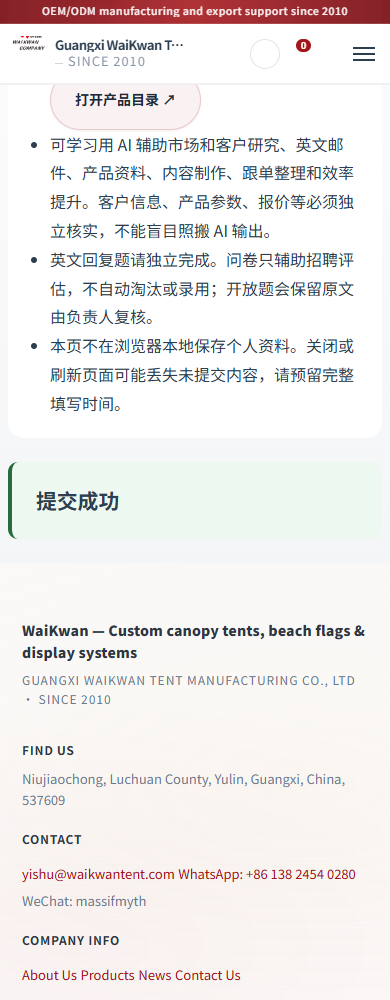
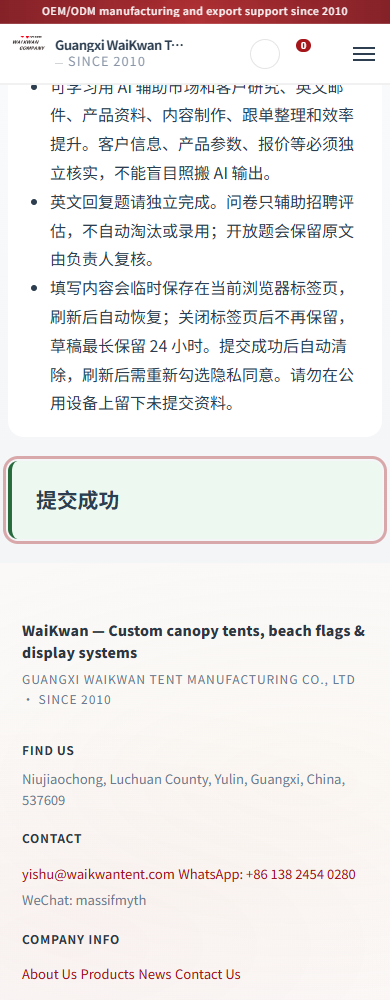
1
1

diff --git a/zh/careers.html b/zh/careers.html
@@ -201,21 +201,23 @@ height="0" width="0" style="display:none;visibility:hidden"></iframe></noscript>
 <p><strong>销售也要跟进生产进度</strong><br>订单生产落后、货物可能赶不出来或影响交期时，要及时联系相关负责人，协助沟通和推动进度，并向我汇报。这属于销售订单跟进的一部分，主要工作仍是外贸销售。</p>
 <p><strong>薪酬与食宿如实说明</strong><br>薪酬为底薪＋成交提成，前 3–6 个月收入可能起步较慢，具体金额和规则面谈确认，不承诺固定收入、固定涨薪或必然达到某种收入。公司可以提供食宿，是否入住由你自行选择。</p>
 </div><p>外贸经验不限；更看重你对外贸的兴趣、主动了解产品和学习 AI 工具的意愿，以及基础英文读写和沟通能力。没有 AI 使用经验不直接视为不合格。</p></section>
-<section class="careers-box"><h2>填写前，请先了解</h2><ul><li>问卷预计 8–10 分钟，共 13 题。简答栏建议用一两句话；按真实情况填写即可，不需要标准答案。</li><li>请先浏览一个感兴趣的产品，想一想它解决的需求、适用客户和你还想了解的信息。<a class="btn btn-secondary" href="/zh/all-products.html" target="_blank" rel="noopener noreferrer">打开产品目录 ↗</a></li><li>可学习用 AI 辅助市场和客户研究、英文邮件、产品资料、内容制作、跟单整理和效率提升。客户信息、产品参数、报价等必须独立核实，不能盲目照搬 AI 输出。</li><li>英文回复题请独立完成。问卷只辅助招聘评估，不自动淘汰或录用；开放题会保留原文由负责人复核。</li><li>本页不在浏览器本地保存个人资料。关闭或刷新页面可能丢失未提交内容，请预留完整填写时间。</li></ul></section>
+<section class="careers-box"><h2>填写前，请先了解</h2><ul><li>问卷预计 8–10 分钟，共 13 题。简答栏建议用一两句话；按真实情况填写即可，不需要标准答案。</li><li>请先浏览一个感兴趣的产品，想一想它解决的需求、适用客户和你还想了解的信息。<a class="btn btn-secondary" href="/zh/all-products.html" target="_blank" rel="noopener noreferrer">打开产品目录 ↗</a></li><li>可学习用 AI 辅助市场和客户研究、英文邮件、产品资料、内容制作、跟单整理和效率提升。客户信息、产品参数、报价等必须独立核实，不能盲目照搬 AI 输出。</li><li>英文回复题请独立完成。问卷只辅助招聘评估，不自动淘汰或录用；开放题会保留原文由负责人复核。</li><li>填写内容会临时保存在当前浏览器标签页，刷新后自动恢复；关闭标签页后不再保留，草稿最长保留 24 小时。提交成功后自动清除，刷新后需重新勾选隐私同意。请勿在公用设备上留下未提交资料。</li></ul></section>
 <div id="careersStatus" class="careers-notice" role="status" aria-live="polite" tabindex="-1" data-state="unconfigured">正在加载在线问卷，请先确认可以访问 Google 服务。</div>
 <p id="careersProgress" class="careers-progress" aria-live="polite">正在加载问卷…</p>
 <form id="careersForm" action="#careersStatus" method="post">
+<p id="careersDraftStatus" class="careers-hint">草稿将在当前标签页临时保存，刷新后可恢复。</p>
 <section class="careers-box" aria-labelledby="contactHeading"><h2 id="contactHeading">基本申请信息</h2><p class="careers-hint">仅收集招聘所需资料；基本联系信息及工作年限不计分。无正式工作经历可如实填写学习、兼职或其他相关经历。</p><div class="careers-profile">
 <div><label for="applicantName">姓名</label><input id="applicantName" name="name" autocomplete="name" required maxlength="80"></div>
 <div><label for="applicantPhone">电话</label><input id="applicantPhone" name="phone" type="tel" autocomplete="tel" required minlength="7" maxlength="30"></div>
 <div><label for="applicantEmail">邮箱</label><input id="applicantEmail" name="email" type="email" autocomplete="email" required maxlength="254"></div>
 <div><label for="applicantLocation">所在地（城市即可）</label><input id="applicantLocation" name="location" autocomplete="address-level2" required maxlength="120"></div>
+<div class="wide"><label for="applicantWechat">微信号（选填）</label><input id="applicantWechat" name="wechat" maxlength="80" autocomplete="off" placeholder="填写微信号，方便招聘沟通"></div>
 <div class="wide"><label for="applicantAvailability">可到岗时间</label><input id="applicantAvailability" name="availability" required maxlength="120" placeholder="例如：收到录用通知后两周内"></div>
 <div class="wide"><label for="applicantExperience">相关工作或学习经历</label><textarea id="applicantExperience" name="experience" required rows="3" maxlength="1200" placeholder="简述做过的事情、负责内容；没有外贸经历也可以申请。"></textarea></div>
 </div></section>
 <div class="careers-honey" aria-hidden="true"><label for="careersWebsite">请留空</label><input id="careersWebsite" name="website" tabindex="-1" autocomplete="off"></div>
 <div id="careersQuestions"></div><noscript><p class="careers-notice">问卷需要启用 JavaScript。当前无法提交，请联系招聘负责人。</p></noscript>
-<section class="careers-box" id="recruitmentPrivacy"><h2>招聘隐私说明</h2><p>姓名、电话、邮箱、所在地、到岗时间、经历与问卷答案仅用于本次招聘联系和岗位评估。提交后，资料及供人工复核的评估报告通过 Google Apps Script 写入招聘负责人管理的私人 Google 表格（候选人总览、逐题答案），候选人页面不展示评分。</p><p>不要求年龄、婚育、健康、宗教、身份证件等与岗位无关的敏感信息，请不要在答案中主动填写这些内容。不会将候选人信息发送给未经配置的第三方 AI。申请信息不用于营销。需要查询、更正或删除申请资料时，可联系 yishu@waikwantent.com；招聘负责人应限制资料访问并在招聘结束后及时清理不再需要的资料。</p><label class="careers-check"><input name="consent" type="checkbox" required><span>我已阅读并同意上述隐私说明，同意将我提供的资料仅用于招聘联系和评估。</span></label>
+<section class="careers-box" id="recruitmentPrivacy"><h2>招聘隐私说明</h2><p>姓名、电话、邮箱、微信号（如填写）、所在地、到岗时间、经历与问卷答案仅用于本次招聘联系和岗位评估。未提交草稿仅临时保存在本机当前标签页的 sessionStorage 中，刷新可恢复；最长保留 24 小时，关闭标签页或提交成功后清除。提交后，资料及供人工复核的评估报告通过 Google Apps Script 写入招聘负责人管理的私人 Google 表格（候选人总览、逐题答案），候选人页面不展示评分。</p><p>不要求年龄、婚育、健康、宗教、身份证件等与岗位无关的敏感信息，请不要在答案中主动填写这些内容。不会将候选人信息发送给未经配置的第三方 AI。申请信息不用于营销。需要查询、更正或删除申请资料时，可联系 yishu@waikwantent.com；招聘负责人应限制资料访问并在招聘结束后及时清理不再需要的资料。</p><label class="careers-check"><input name="consent" type="checkbox" required><span>我已阅读并同意上述隐私说明，同意将我提供的资料仅用于招聘联系和评估。</span></label>
 <button id="careersSubmit" type="submit" class="btn btn-primary careers-submit" disabled>正在加载问卷…</button><p class="careers-hint">只有收到 Google 表格写入成功回执，页面才会显示“提交成功”。若显示失败或超时，请保留答案并联系负责人核实。</p></section></form></div></article><section class="contact-bottom">
             <div class="contact-bottom__bg"></div>
             <div class="contact-bottom__inner">
@@ -316,4 +318,4 @@ height="0" width="0" style="display:none;visibility:hidden"></iframe></noscript>
                     </div>
                 </div>
             </div>
-        </section></main><script src="/scripts/cart.js"></script><script src="/scripts/main.js?v=20261020-careers-nav"></script><script src="/scripts/multilang.js?v=20261020-careers-nav"></script><script src="/scripts/get-quote-footer.js?v=20261020-careers"></script><script src="/scripts/careers-config.js?v=20261020-sheets-r2"></script><script src="/scripts/careers-assessment.js?v=20261020-sheets-r2"></script><script src="/scripts/careers.js?v=20261020-sheets-r2"></script></body></html>
+        </section></main><script src="/scripts/cart.js"></script><script src="/scripts/main.js?v=20261020-careers-nav"></script><script src="/scripts/multilang.js?v=20261020-careers-nav"></script><script src="/scripts/get-quote-footer.js?v=20261020-careers"></script><script src="/scripts/careers-config.js?v=20261020-sheets-r2"></script><script src="/scripts/careers-assessment.js?v=20261020-wechat"></script><script src="/scripts/careers.js?v=20261020-wechat"></script></body></html>

diff --git a/careers.html b/careers.html
@@ -185,21 +185,23 @@ height="0" width="0" style="display:none;visibility:hidden"></iframe></noscript>
 <p><strong>销售也要跟进生产进度</strong><br>订单生产落后、货物可能赶不出来或影响交期时，要及时联系相关负责人，协助沟通和推动进度，并向我汇报。这属于销售订单跟进的一部分，主要工作仍是外贸销售。</p>
 <p><strong>薪酬与食宿如实说明</strong><br>薪酬为底薪＋成交提成，前 3–6 个月收入可能起步较慢，具体金额和规则面谈确认，不承诺固定收入、固定涨薪或必然达到某种收入。公司可以提供食宿，是否入住由你自行选择。</p>
 </div><p>外贸经验不限；更看重你对外贸的兴趣、主动了解产品和学习 AI 工具的意愿，以及基础英文读写和沟通能力。没有 AI 使用经验不直接视为不合格。</p></section>
-<section class="careers-box"><h2>填写前，请先了解</h2><ul><li>问卷预计 8–10 分钟，共 13 题。简答栏建议用一两句话；按真实情况填写即可，不需要标准答案。</li><li>请先浏览一个感兴趣的产品，想一想它解决的需求、适用客户和你还想了解的信息。<a class="btn btn-secondary" href="/all-products.html" target="_blank" rel="noopener noreferrer">打开产品目录 ↗</a></li><li>可学习用 AI 辅助市场和客户研究、英文邮件、产品资料、内容制作、跟单整理和效率提升。客户信息、产品参数、报价等必须独立核实，不能盲目照搬 AI 输出。</li><li>英文回复题请独立完成。问卷只辅助招聘评估，不自动淘汰或录用；开放题会保留原文由负责人复核。</li><li>本页不在浏览器本地保存个人资料。关闭或刷新页面可能丢失未提交内容，请预留完整填写时间。</li></ul></section>
+<section class="careers-box"><h2>填写前，请先了解</h2><ul><li>问卷预计 8–10 分钟，共 13 题。简答栏建议用一两句话；按真实情况填写即可，不需要标准答案。</li><li>请先浏览一个感兴趣的产品，想一想它解决的需求、适用客户和你还想了解的信息。<a class="btn btn-secondary" href="/all-products.html" target="_blank" rel="noopener noreferrer">打开产品目录 ↗</a></li><li>可学习用 AI 辅助市场和客户研究、英文邮件、产品资料、内容制作、跟单整理和效率提升。客户信息、产品参数、报价等必须独立核实，不能盲目照搬 AI 输出。</li><li>英文回复题请独立完成。问卷只辅助招聘评估，不自动淘汰或录用；开放题会保留原文由负责人复核。</li><li>填写内容会临时保存在当前浏览器标签页，刷新后自动恢复；关闭标签页后不再保留，草稿最长保留 24 小时。提交成功后自动清除，刷新后需重新勾选隐私同意。请勿在公用设备上留下未提交资料。</li></ul></section>
 <div id="careersStatus" class="careers-notice" role="status" aria-live="polite" tabindex="-1" data-state="unconfigured">正在加载在线问卷，请先确认可以访问 Google 服务。</div>
 <p id="careersProgress" class="careers-progress" aria-live="polite">正在加载问卷…</p>
 <form id="careersForm" action="#careersStatus" method="post">
+<p id="careersDraftStatus" class="careers-hint">草稿将在当前标签页临时保存，刷新后可恢复。</p>
 <section class="careers-box" aria-labelledby="contactHeading"><h2 id="contactHeading">基本申请信息</h2><p class="careers-hint">仅收集招聘所需资料；基本联系信息及工作年限不计分。无正式工作经历可如实填写学习、兼职或其他相关经历。</p><div class="careers-profile">
 <div><label for="applicantName">姓名</label><input id="applicantName" name="name" autocomplete="name" required maxlength="80"></div>
 <div><label for="applicantPhone">电话</label><input id="applicantPhone" name="phone" type="tel" autocomplete="tel" required minlength="7" maxlength="30"></div>
 <div><label for="applicantEmail">邮箱</label><input id="applicantEmail" name="email" type="email" autocomplete="email" required maxlength="254"></div>
 <div><label for="applicantLocation">所在地（城市即可）</label><input id="applicantLocation" name="location" autocomplete="address-level2" required maxlength="120"></div>
+<div class="wide"><label for="applicantWechat">微信号（选填）</label><input id="applicantWechat" name="wechat" maxlength="80" autocomplete="off" placeholder="填写微信号，方便招聘沟通"></div>
 <div class="wide"><label for="applicantAvailability">可到岗时间</label><input id="applicantAvailability" name="availability" required maxlength="120" placeholder="例如：收到录用通知后两周内"></div>
 <div class="wide"><label for="applicantExperience">相关工作或学习经历</label><textarea id="applicantExperience" name="experience" required rows="3" maxlength="1200" placeholder="简述做过的事情、负责内容；没有外贸经历也可以申请。"></textarea></div>
 </div></section>
 <div class="careers-honey" aria-hidden="true"><label for="careersWebsite">请留空</label><input id="careersWebsite" name="website" tabindex="-1" autocomplete="off"></div>
 <div id="careersQuestions"></div><noscript><p class="careers-notice">问卷需要启用 JavaScript。当前无法提交，请联系招聘负责人。</p></noscript>
-<section class="careers-box" id="recruitmentPrivacy"><h2>招聘隐私说明</h2><p>姓名、电话、邮箱、所在地、到岗时间、经历与问卷答案仅用于本次招聘联系和岗位评估。提交后，资料及供人工复核的评估报告通过 Google Apps Script 写入招聘负责人管理的私人 Google 表格（候选人总览、逐题答案），候选人页面不展示评分。</p><p>不要求年龄、婚育、健康、宗教、身份证件等与岗位无关的敏感信息，请不要在答案中主动填写这些内容。不会将候选人信息发送给未经配置的第三方 AI。申请信息不用于营销。需要查询、更正或删除申请资料时，可联系 yishu@waikwantent.com；招聘负责人应限制资料访问并在招聘结束后及时清理不再需要的资料。</p><label class="careers-check"><input name="consent" type="checkbox" required><span>我已阅读并同意上述隐私说明，同意将我提供的资料仅用于招聘联系和评估。</span></label>
+<section class="careers-box" id="recruitmentPrivacy"><h2>招聘隐私说明</h2><p>姓名、电话、邮箱、微信号（如填写）、所在地、到岗时间、经历与问卷答案仅用于本次招聘联系和岗位评估。未提交草稿仅临时保存在本机当前标签页的 sessionStorage 中，刷新可恢复；最长保留 24 小时，关闭标签页或提交成功后清除。提交后，资料及供人工复核的评估报告通过 Google Apps Script 写入招聘负责人管理的私人 Google 表格（候选人总览、逐题答案），候选人页面不展示评分。</p><p>不要求年龄、婚育、健康、宗教、身份证件等与岗位无关的敏感信息，请不要在答案中主动填写这些内容。不会将候选人信息发送给未经配置的第三方 AI。申请信息不用于营销。需要查询、更正或删除申请资料时，可联系 yishu@waikwantent.com；招聘负责人应限制资料访问并在招聘结束后及时清理不再需要的资料。</p><label class="careers-check"><input name="consent" type="checkbox" required><span>我已阅读并同意上述隐私说明，同意将我提供的资料仅用于招聘联系和评估。</span></label>
 <button id="careersSubmit" type="submit" class="btn btn-primary careers-submit" disabled>正在加载问卷…</button><p class="careers-hint">只有收到 Google 表格写入成功回执，页面才会显示“提交成功”。若显示失败或超时，请保留答案并联系负责人核实。</p></section></form></div></article><section class="contact-bottom">
             <div class="contact-bottom__bg"></div>
             <div class="contact-bottom__inner">
@@ -300,4 +302,4 @@ height="0" width="0" style="display:none;visibility:hidden"></iframe></noscript>
                     </div>
                 </div>
             </div>
-        </section></main><script src="/scripts/cart.js"></script><script src="/scripts/main.js?v=20261020-careers-nav"></script><script src="/scripts/multilang.js?v=20261020-careers-nav"></script><script src="/scripts/get-quote-footer.js?v=20261020-careers"></script><script src="/scripts/careers-config.js?v=20261020-sheets-r2"></script><script src="/scripts/careers-assessment.js?v=20261020-sheets-r2"></script><script src="/scripts/careers.js?v=20261020-sheets-r2"></script></body></html>
+        </section></main><script src="/scripts/cart.js"></script><script src="/scripts/main.js?v=20261020-careers-nav"></script><script src="/scripts/multilang.js?v=20261020-careers-nav"></script><script src="/scripts/get-quote-footer.js?v=20261020-careers"></script><script src="/scripts/careers-config.js?v=20261020-sheets-r2"></script><script src="/scripts/careers-assessment.js?v=20261020-wechat"></script><script src="/scripts/careers.js?v=20261020-wechat"></script></body></html>

diff --git a/scripts/careers.js b/scripts/careers.js
@@ -12,6 +12,47 @@
   const endpoint = String(window.WK_CAREERS_SCRIPT_URL || '');
   const validEndpoint = /^https:\/\/script\.google\.com\/macros\/s\/[A-Za-z0-9_-]+\/exec$/.test(endpoint);
   let submittedAt = '';
+  const draftKey = 'wk-careers-draft-v1';
+  const draftLifetime = 24 * 60 * 60 * 1000;
+  let draftReady = false;
+  function saveDraft() {
+    if (!draftReady || form.hidden) return;
+    const note = document.getElementById('careersDraftStatus');
+    try {
+      const entries = [...new FormData(form)].filter(([name]) => !['consent', 'website'].includes(name));
+      sessionStorage.setItem(draftKey, JSON.stringify({ version: schema.version, savedAt: Date.now(), entries,
+        identifier, lastContent, submittedAt }));
+      if (note) note.textContent = '草稿已保存在当前标签页，刷新可恢复。关闭标签页后不再保留，草稿最长保留 24 小时；提交成功后自动清除。';
+    } catch (_) {
+      if (note) note.textContent = '浏览器未能保存草稿；请暂勿刷新或关闭此页，以免丢失填写内容。';
+    }
+  }
+  function restoreDraft() {
+    try {
+      const draft = JSON.parse(sessionStorage.getItem(draftKey) || 'null');
+      if (!draft) return;
+      if (draft.version !== schema.version || !Number.isFinite(draft.savedAt) || Date.now() - draft.savedAt > draftLifetime || !Array.isArray(draft.entries)) {
+        sessionStorage.removeItem(draftKey);
+        return;
+      }
+      const values = new Map();
+      draft.entries.forEach(entry => {
+        if (!Array.isArray(entry) || typeof entry[0] !== 'string' || typeof entry[1] !== 'string') return;
+        if (!values.has(entry[0])) values.set(entry[0], []);
+        values.get(entry[0]).push(entry[1]);
+      });
+      [...form.elements].forEach(input => {
+        if (!input.name || ['consent', 'website'].includes(input.name)) return;
+        const saved = values.get(input.name) || [];
+        if (input.type === 'checkbox') input.checked = saved.includes(input.value);
+        else if (saved.length) input.value = saved[0].slice(0, input.maxLength > 0 ? input.maxLength : 12000);
+      });
+      form.elements.consent.checked = false;
+      identifier = typeof draft.identifier === 'string' ? draft.identifier : '';
+      lastContent = identifier && typeof draft.lastContent === 'string' ? draft.lastContent : '';
+      submittedAt = typeof draft.submittedAt === 'string' ? draft.submittedAt : '';
+    } catch (_) { /* Storage may be disabled. The form still works. */ }
+  }
   const node = (tag, text, attrs = {}) => {
     const el = document.createElement(tag);
     if (text) el.textContent = text;
@@ -79,10 +120,13 @@
     })).length;
     progress.textContent = `已填写 ${done} / ${schema.questions.length} 题 · 建议每个简答栏用一两句话说明`;
     checkboxValidation();
+    saveDraft();
   }
   function payload() {
     const contact = {};
     ['name', 'phone', 'email', 'location', 'availability', 'experience'].forEach(key => { contact[key] = form.elements[key].value.trim(); });
+    const wechat = form.elements.wechat.value.trim();
+    if (wechat) contact.wechat = wechat;
     const answers = {};
     schema.questions.forEach(q => {
       answers[q.id] = {};
@@ -117,11 +161,13 @@
     show('正在提交，等待 Google 表格写入确认，请保持网络连接…', 'pending');
     try {
       const data = payload();
+      saveDraft();
       if (data.website) throw new Error('提交未成功，请检查填写内容。');
       const report = window.WK_assessCareers(data, rules);
       await postApplication(report);
       // Only a matching confirmation from this submission iframe means success.
       show('提交成功', 'success');
+      try { sessionStorage.removeItem(draftKey); } catch (_) { /* No stored draft. */ }
       form.hidden = true;
       progress.hidden = true;
       status.focus({ preventScroll: true });
@@ -170,6 +216,9 @@
       if (!response.ok) throw new Error('问卷加载失败，请刷新页面。');
       schema = await response.json();
       render();
+      restoreDraft();
+      draftReady = true;
+      updateProgress();
       const scoringResponse = await fetch('/data/careers-scoring-rules.json?v=20261020-sheets-r2', { cache: 'no-cache' });
       if (!scoringResponse.ok) throw new Error('问卷配置加载失败，请刷新。');
       rules = await scoringResponse.json();

diff --git a/scripts/careers-assessment.js b/scripts/careers-assessment.js
@@ -45,7 +45,11 @@
     if(['silent','avoid'].includes(a.q10.style)||['guess','wait'].includes(a.q11.start))priority.push('直接汇报、反馈与无流程任务的沟通方式');
     const totalScore=Object.values(totals).reduce((s,n)=>s+n,0);
     const summary=priority.length?'存在需优先核实的岗位预期或处理方式差异；总分不能替代逐项沟通。':totalScore>=80?'自述与岗位期待较接近，建议面试核实':totalScore>=60?'部分匹配，需针对差异进一步交流':'当前自述有较多待确认项，建议先沟通预期';
-    return {submissionId:data.submission_id,submittedAt:data.submittedAt||new Date().toISOString(),website:data.website,candidate:data.contact,
+    // Preserve the deployed Sheet's existing columns; the optional WeChat ID
+    // is also readable in its existing experience cell without a GAS update.
+    const candidate = {...data.contact};
+    if (candidate.wechat) candidate.experience += '\n\n微信号：' + candidate.wechat;
+    return {submissionId:data.submission_id,submittedAt:data.submittedAt||new Date().toISOString(),website:data.website,candidate,
       assessment:{totalScore,categoryScores:Object.fromEntries(Object.entries(totals).map(([k,v])=>[rules.dimensions[k][0],v])),summary,riskPoints:[...priority,...risks],recommendation:'供招聘负责人结合完整答案面试复核；自动评分不决定录用或拒绝。',needsManualReview:true},answers};
   }
   root.WK_assessCareers=assess;

diff --git a/scripts/build-careers-pages.py b/scripts/build-careers-pages.py
@@ -17,6 +17,7 @@ profile='''<section class="careers-box" aria-labelledby="contactHeading"><h2 id=
 <div><label for="applicantPhone">电话</label><input id="applicantPhone" name="phone" type="tel" autocomplete="tel" required minlength="7" maxlength="30"></div>
 <div><label for="applicantEmail">邮箱</label><input id="applicantEmail" name="email" type="email" autocomplete="email" required maxlength="254"></div>
 <div><label for="applicantLocation">所在地（城市即可）</label><input id="applicantLocation" name="location" autocomplete="address-level2" required maxlength="120"></div>
+<div class="wide"><label for="applicantWechat">微信号（选填）</label><input id="applicantWechat" name="wechat" maxlength="80" autocomplete="off" placeholder="填写微信号，方便招聘沟通"></div>
 <div class="wide"><label for="applicantAvailability">可到岗时间</label><input id="applicantAvailability" name="availability" required maxlength="120" placeholder="例如：收到录用通知后两周内"></div>
 <div class="wide"><label for="applicantExperience">相关工作或学习经历</label><textarea id="applicantExperience" name="experience" required rows="3" maxlength="1200" placeholder="简述做过的事情、负责内容；没有外贸经历也可以申请。"></textarea></div>
 </div></section>'''
@@ -31,14 +32,15 @@ body='''<main class="careers-layout"><article class="careers-page" lang="zh-CN">
 <p><strong>销售也要跟进生产进度</strong><br>订单生产落后、货物可能赶不出来或影响交期时，要及时联系相关负责人，协助沟通和推动进度，并向我汇报。这属于销售订单跟进的一部分，主要工作仍是外贸销售。</p>
 <p><strong>薪酬与食宿如实说明</strong><br>薪酬为底薪＋成交提成，前 3–6 个月收入可能起步较慢，具体金额和规则面谈确认，不承诺固定收入、固定涨薪或必然达到某种收入。公司可以提供食宿，是否入住由你自行选择。</p>
 </div><p>外贸经验不限；更看重你对外贸的兴趣、主动了解产品和学习 AI 工具的意愿，以及基础英文读写和沟通能力。没有 AI 使用经验不直接视为不合格。</p></section>
-<section class="careers-box"><h2>填写前，请先了解</h2><ul><li>问卷预计 8–10 分钟，共 13 题。简答栏建议用一两句话；按真实情况填写即可，不需要标准答案。</li><li>请先浏览一个感兴趣的产品，想一想它解决的需求、适用客户和你还想了解的信息。<a class="btn btn-secondary" href="{prefix}all-products.html" target="_blank" rel="noopener noreferrer">打开产品目录 ↗</a></li><li>可学习用 AI 辅助市场和客户研究、英文邮件、产品资料、内容制作、跟单整理和效率提升。客户信息、产品参数、报价等必须独立核实，不能盲目照搬 AI 输出。</li><li>英文回复题请独立完成。问卷只辅助招聘评估，不自动淘汰或录用；开放题会保留原文由负责人复核。</li><li>本页不在浏览器本地保存个人资料。关闭或刷新页面可能丢失未提交内容，请预留完整填写时间。</li></ul></section>
+<section class="careers-box"><h2>填写前，请先了解</h2><ul><li>问卷预计 8–10 分钟，共 13 题。简答栏建议用一两句话；按真实情况填写即可，不需要标准答案。</li><li>请先浏览一个感兴趣的产品，想一想它解决的需求、适用客户和你还想了解的信息。<a class="btn btn-secondary" href="{prefix}all-products.html" target="_blank" rel="noopener noreferrer">打开产品目录 ↗</a></li><li>可学习用 AI 辅助市场和客户研究、英文邮件、产品资料、内容制作、跟单整理和效率提升。客户信息、产品参数、报价等必须独立核实，不能盲目照搬 AI 输出。</li><li>英文回复题请独立完成。问卷只辅助招聘评估，不自动淘汰或录用；开放题会保留原文由负责人复核。</li><li>填写内容会临时保存在当前浏览器标签页，刷新后自动恢复；关闭标签页后不再保留，草稿最长保留 24 小时。提交成功后自动清除，刷新后需重新勾选隐私同意。请勿在公用设备上留下未提交资料。</li></ul></section>
 <div id="careersStatus" class="careers-notice" role="status" aria-live="polite" tabindex="-1" data-state="unconfigured">正在加载在线问卷，请先确认可以访问 Google 服务。</div>
 <p id="careersProgress" class="careers-progress" aria-live="polite">正在加载问卷…</p>
 <form id="careersForm" action="#careersStatus" method="post">
+<p id="careersDraftStatus" class="careers-hint">草稿将在当前标签页临时保存，刷新后可恢复。</p>
 '''+profile+'''
 <div class="careers-honey" aria-hidden="true"><label for="careersWebsite">请留空</label><input id="careersWebsite" name="website" tabindex="-1" autocomplete="off"></div>
 <div id="careersQuestions"></div><noscript><p class="careers-notice">问卷需要启用 JavaScript。当前无法提交，请联系招聘负责人。</p></noscript>
-<section class="careers-box" id="recruitmentPrivacy"><h2>招聘隐私说明</h2><p>姓名、电话、邮箱、所在地、到岗时间、经历与问卷答案仅用于本次招聘联系和岗位评估。提交后，资料及供人工复核的评估报告通过 Google Apps Script 写入招聘负责人管理的私人 Google 表格（候选人总览、逐题答案），候选人页面不展示评分。</p><p>不要求年龄、婚育、健康、宗教、身份证件等与岗位无关的敏感信息，请不要在答案中主动填写这些内容。不会将候选人信息发送给未经配置的第三方 AI。申请信息不用于营销。需要查询、更正或删除申请资料时，可联系 yishu@waikwantent.com；招聘负责人应限制资料访问并在招聘结束后及时清理不再需要的资料。</p><label class="careers-check"><input name="consent" type="checkbox" required><span>我已阅读并同意上述隐私说明，同意将我提供的资料仅用于招聘联系和评估。</span></label>
+<section class="careers-box" id="recruitmentPrivacy"><h2>招聘隐私说明</h2><p>姓名、电话、邮箱、微信号（如填写）、所在地、到岗时间、经历与问卷答案仅用于本次招聘联系和岗位评估。未提交草稿仅临时保存在本机当前标签页的 sessionStorage 中，刷新可恢复；最长保留 24 小时，关闭标签页或提交成功后清除。提交后，资料及供人工复核的评估报告通过 Google Apps Script 写入招聘负责人管理的私人 Google 表格（候选人总览、逐题答案），候选人页面不展示评分。</p><p>不要求年龄、婚育、健康、宗教、身份证件等与岗位无关的敏感信息，请不要在答案中主动填写这些内容。不会将候选人信息发送给未经配置的第三方 AI。申请信息不用于营销。需要查询、更正或删除申请资料时，可联系 yishu@waikwantent.com；招聘负责人应限制资料访问并在招聘结束后及时清理不再需要的资料。</p><label class="careers-check"><input name="consent" type="checkbox" required><span>我已阅读并同意上述隐私说明，同意将我提供的资料仅用于招聘联系和评估。</span></label>
 <button id="careersSubmit" type="submit" class="btn btn-primary careers-submit" disabled>正在加载问卷…</button><p class="careers-hint">只有收到 Google 表格写入成功回执，页面才会显示“提交成功”。若显示失败或超时，请保留答案并联系负责人核实。</p></section></form></div></article>'''
 for zh in [False,True]:
  prefix='/zh/' if zh else '/';p=Path('zh/careers.html' if zh else 'careers.html');template=Path('zh/export-loading.html' if zh else 'export-loading.html').read_text(encoding='utf-8');head=template.split('<main>')[0]
@@ -52,7 +54,7 @@ for zh in [False,True]:
  head=head.replace('</head>','<script type="application/ld+json">'+json.dumps(schema,ensure_ascii=False)+'</script>\n</head>')
  footer_source=Path('zh/index.html' if zh else 'index.html').read_text(encoding='utf-8')
  footer=re.search(r'<section class="contact-bottom">.*?</section>',footer_source,re.S).group(0)
- scripts='''<script src="/scripts/bilingual-routing.js?v=20261020-careers" defer></script><script src="/scripts/cart.js"></script><script src="/scripts/main.js?v=20261020-careers-nav"></script><script src="/scripts/multilang.js?v=20261020-careers-nav"></script><script src="/scripts/get-quote-footer.js?v=20261020-careers"></script><script src="/scripts/careers-config.js?v=20261020-sheets-r2"></script><script src="/scripts/careers-assessment.js?v=20261020-sheets-r2"></script><script src="/scripts/careers.js?v=20261020-sheets-r2"></script>'''
+ scripts='''<script src="/scripts/bilingual-routing.js?v=20261020-careers" defer></script><script src="/scripts/cart.js"></script><script src="/scripts/main.js?v=20261020-careers-nav"></script><script src="/scripts/multilang.js?v=20261020-careers-nav"></script><script src="/scripts/get-quote-footer.js?v=20261020-careers"></script><script src="/scripts/careers-config.js?v=20261020-sheets-r2"></script><script src="/scripts/careers-assessment.js?v=20261020-wechat"></script><script src="/scripts/careers.js?v=20261020-wechat"></script>'''
  # The head already supplies routing; do not initialize it twice.
  scripts=scripts.replace('<script src="/scripts/bilingual-routing.js?v=20261020-careers" defer></script>','')
  save(p,head+body.replace('{prefix}',prefix)+footer+'</main>'+scripts+'</body></html>\n')

diff --git a/docs/CAREERS-DEPLOYMENT.md b/docs/CAREERS-DEPLOYMENT.md
@@ -18,7 +18,7 @@
 
 ## 提交流程与校验
 
-1. 网页保留 13 题、必填与同意框校验；不把个人资料放进 URL 或浏览器本地存储。
+1. 网页保留 13 题、必填与同意框校验；不把个人资料放进 URL。根据用户要求，未提交草稿改用当前标签页的 sessionStorage 临时保存以支持刷新恢复；不使用持久化 localStorage。草稿最长24小时，关闭标签页后不保留，成功提交后清除；隐私同意框不恢复。
 2. 依据与 Python 一致的 100 分规则生成初评，保留每题完整原文、逐项依据、分数、维度汇总、待核实事项。页面 DOM 不展示任何评估内容。
 3. 本次提交创建一个同源、隐藏的 `/careers-submit-bridge.html` iframe。父页面只接受该 iframe 的消息，校验 `event.source`、同源 origin、type、requestId 与严格布尔值 ok。
 4. 桥接 iframe 内用原生 form POST，将 JSON 放入唯一表单字段 `payload`，提交到指定 Apps Script。无 no-cors fetch，也不把 iframe load 当成功。
@@ -81,3 +81,8 @@
 5. 验证失败和重复提交：失败不显示成功，同 ID 重试不产生重复行，部分写入不能返回 ok:true。
 
 不需要 SMTP 环境变量或邮箱密码。当前不自动更新 Apps Script、Git 推送或生产部署。
+
+
+## 微信号选填
+
+基本申请信息增加微信号（选填），不计分，支持当前标签页草稿恢复。payload 的 candidate.wechat 单独携带该值，同时在 candidate.experience 原文末尾增加明确的“微信号：”行，使当前已部署的 Apps Script 无需更改列或重新部署也能保存。可在“候选人总览”的“相关经历”单元格末尾查看。原经历不被覆盖，后端15/11列结构不变。
